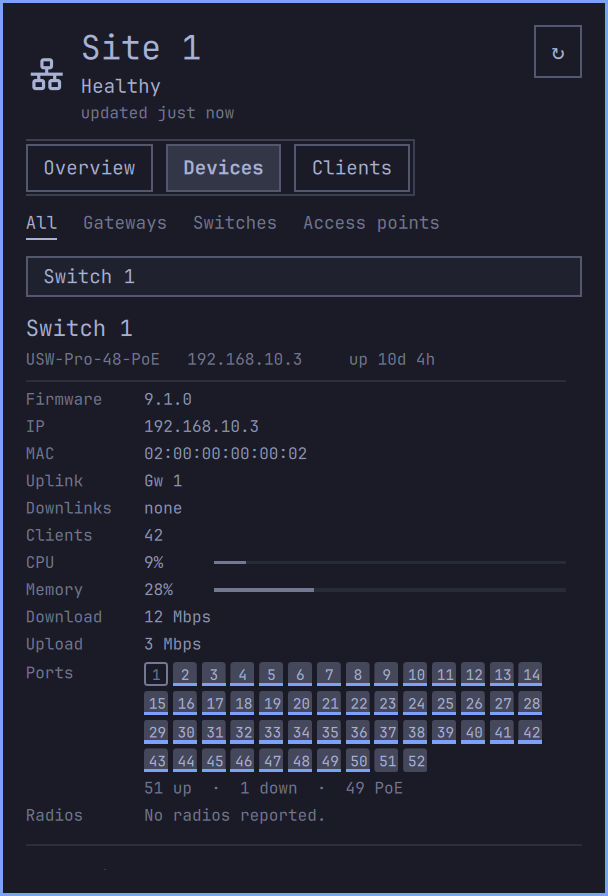
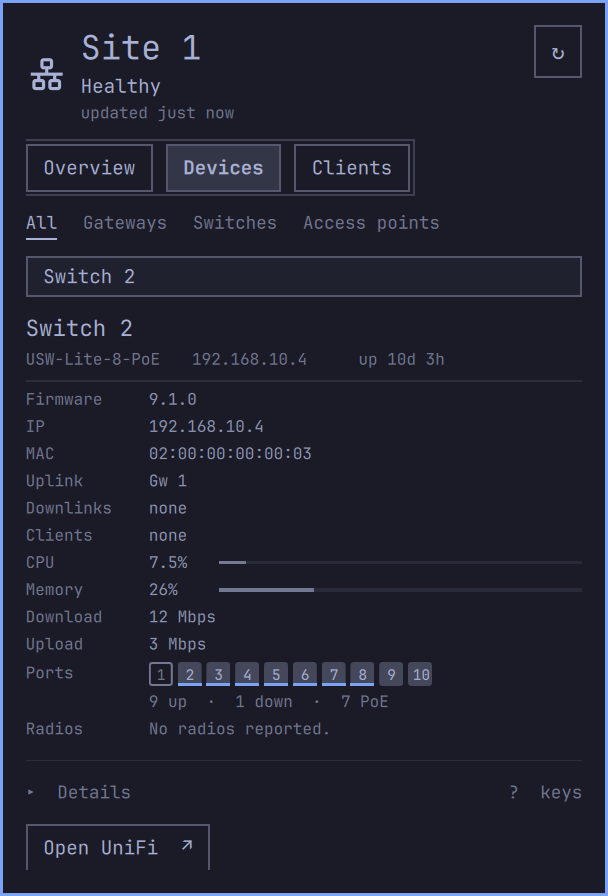
Show the 8-port switch in the expanded-device screenshot
The 52-port USW-Pro-48 filled the capture with a grid of squares. The
8-port USW-Lite shows the same port marks and counts in one row, which is
closer to what most sites have.

diff --git a/README.md b/README.md
@@ -20,7 +20,7 @@ throughput, and its ports or radios. A switch shows every port as a square:
 filled when up, outlined when down, and underlined when it carries PoE.
 
 <p align="center">
-  <img src="docs/images/unifi-device-switch.png" alt="An expanded UniFi switch showing its details and a grid of 52 ports" width="31%">
+  <img src="docs/images/unifi-device-switch.png" alt="An expanded UniFi switch showing its details and its ports" width="31%">
   <img src="docs/images/unifi-device-ap.png" alt="An expanded UniFi access point showing its details and radios" width="31%">
 </p>
 
